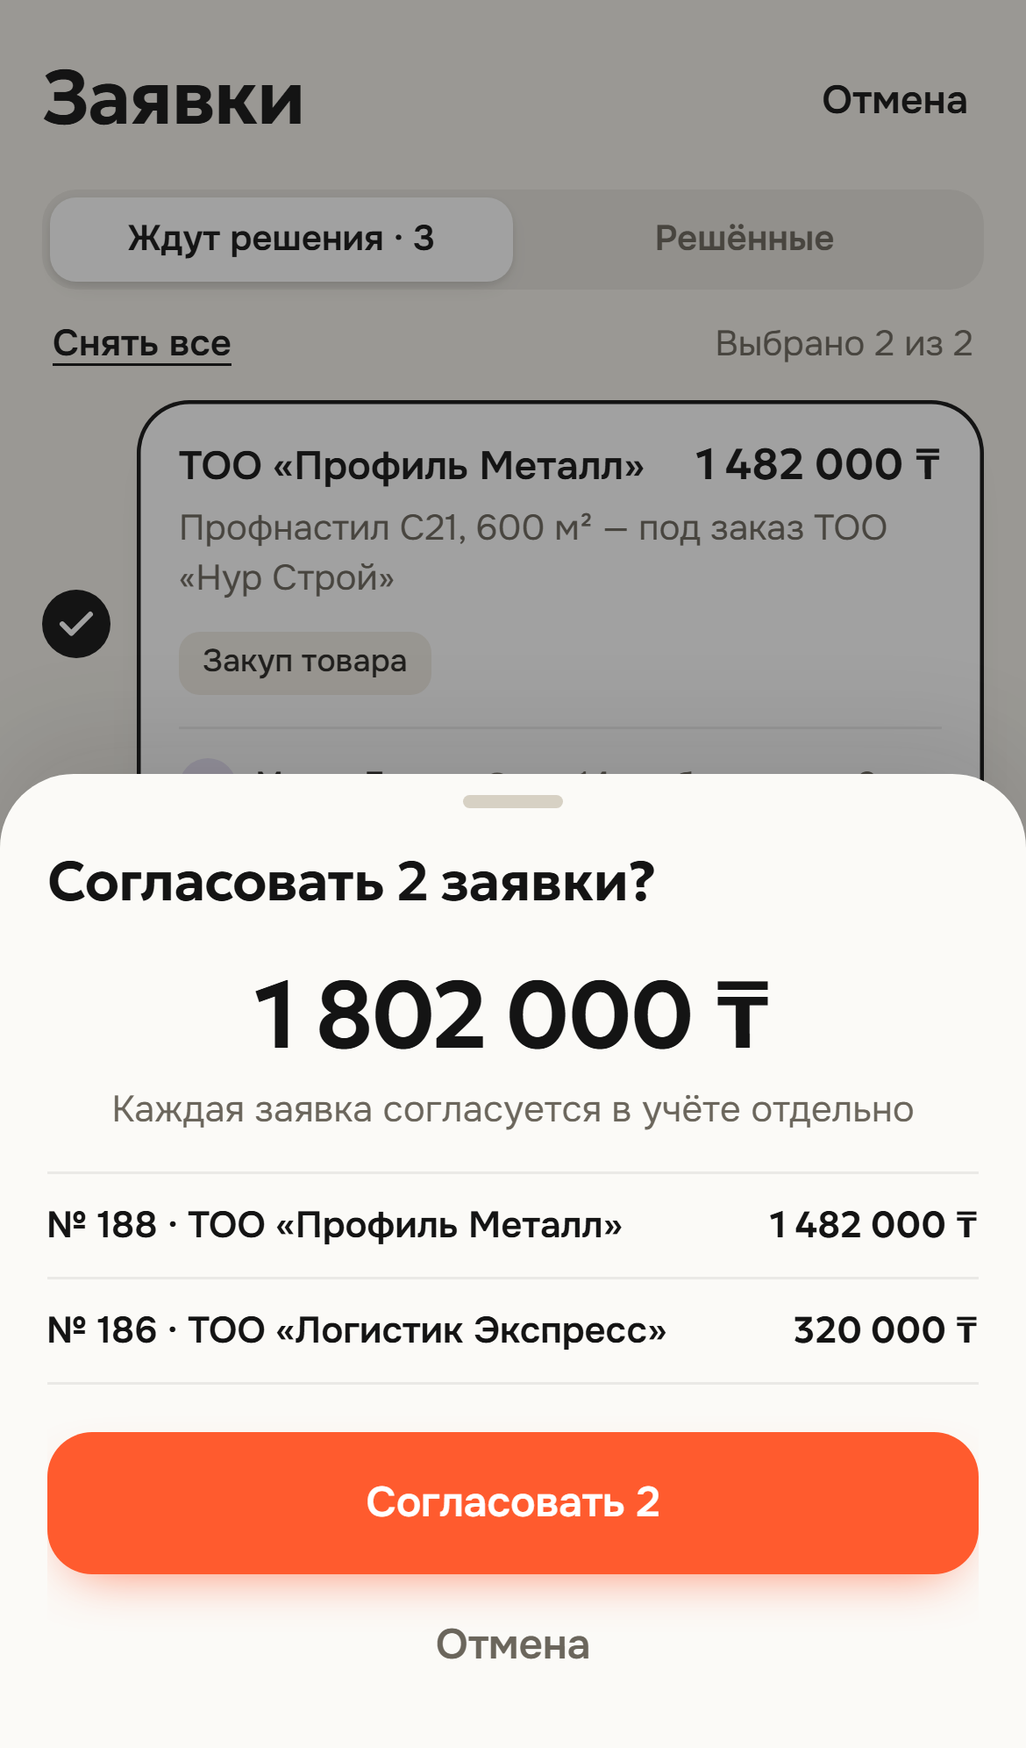
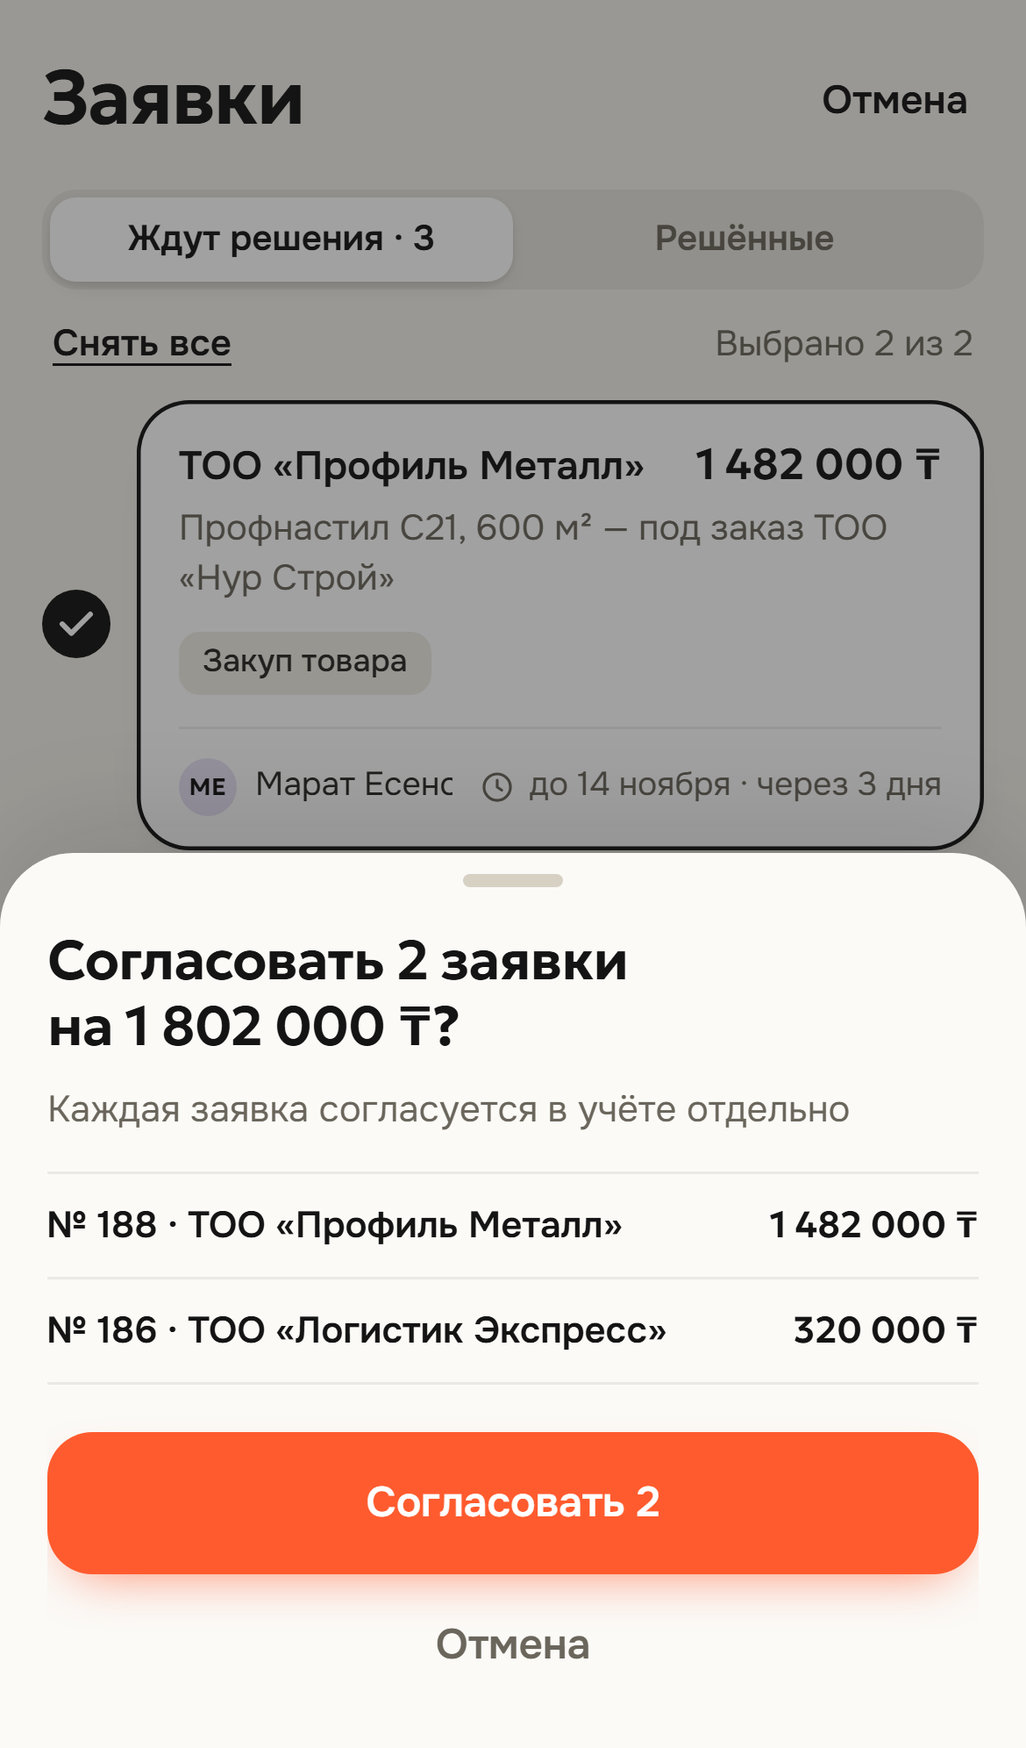
1.3.1: пачка заявок директору — push request_batch и сумма в подтверждении
Push request_batch («На согласование: N заявок», Посредник склеивает уведомления за 30 с) открывает список
«Ждут решения» нужной организации; уведомление отмечается прочитанным, без входа ссылка запоминается. Тег
batch-<org_id> — следующая пачка той же организации заменяет прежнюю. Строка уведомления с type request_batch
или link kind requests ведёт туда же. Одна заявка в окне — прежний push request.
Подтверждение массового согласования: «Согласовать N заявок на <сумма>?».
Серверного метода нет: согласование по-прежнему по одной заявке со своим Idempotency-Key.
Демо: строка «На согласование: 3 заявки» в уведомлениях. appVersion 1.3.1, кэш finpuls-v23.

Changed region(s): [[0.0, 0.4357, 1.0, 0.6536]]

diff --git a/docs/sw.js b/docs/sw.js
@@ -1,6 +1,6 @@
 // Сервис-воркер: оболочка приложения (сначала сеть, без сети — кэш) и push-уведомления.
 // Ответы API (api.smartsol.pro) НЕ кэшируются и не проходят через кэш: данные клиента не оседают на устройстве.
-const CACHE = 'finpuls-v22';
+const CACHE = 'finpuls-v23';
 const SHELL = [
   './', './index.html', './css/app.css', './manifest.webmanifest', './data/demo.json', './data/projects.json',
   './js/app.js', './js/config.js', './js/screens.js', './js/store.js', './js/ui.js', './js/util.js', './js/icons.js', './js/push.js',
@@ -38,12 +38,18 @@ self.addEventListener('fetch', (e) => {
 
 // ---------- push ----------
 // Контракт v1, 9.3: { type, title, body, org_id, request_id, notification_id, sent_at }; 13.22 — то же с
-// type: "counterparty_request" и counterparty_request_id вместо request_id.
+// type: "counterparty_request" и counterparty_request_id вместо request_id; request_batch — пачка новых заявок:
+// { type, title, body, org_id, count, notification_id, sent_at }, без request_id.
 // В push нет сумм и контрагентов — детали приложение запрашивает у сервера при открытии.
 function hashFor(d) {
   if (d.type === 'request' && d.request_id) {
     const q = [d.org_id ? `org=${encodeURIComponent(d.org_id)}` : '', d.notification_id ? `n=${encodeURIComponent(d.notification_id)}` : ''].filter(Boolean).join('&');
     return `#/requests/${encodeURIComponent(d.request_id)}${q ? `?${q}` : ''}`;
+  }
+  // Пачка новых заявок (request_batch, с 1.3.1): Посредник склеивает push за 30 с — список «Ждут решения» организации.
+  if (d.type === 'request_batch') {
+    const q = [d.org_id ? `org=${encodeURIComponent(d.org_id)}` : '', d.notification_id ? `n=${encodeURIComponent(d.notification_id)}` : ''].filter(Boolean).join('&');
+    return `#/requests${q ? `?${q}` : ''}`;
   }
   // Запрос контрагента (13.22): карточка запроса; нет идентификатора — список запросов.
   if (d.type === 'counterparty_request') {
@@ -60,10 +66,11 @@ self.addEventListener('push', (e) => {
   } catch (err) {
     d = {};
   }
-  const title = d.title || (d.type === 'request' ? 'Новая заявка на согласование' : d.type === 'counterparty_request' ? 'Запрос контрагента' : 'ФинПульс');
+  const title = d.title || (d.type === 'request' ? 'Новая заявка на согласование' : d.type === 'request_batch' ? 'Новые заявки на согласование' : d.type === 'counterparty_request' ? 'Запрос контрагента' : 'ФинПульс');
   e.waitUntil(self.registration.showNotification(title, {
     body: d.body || 'Откройте, чтобы посмотреть',
-    tag: d.request_id ? `request-${d.request_id}` : d.counterparty_request_id ? `cr-${d.counterparty_request_id}` : d.notification_id || undefined,
+    // Пачка той же организации заменяет прежнюю, а не добавляется второй строкой.
+    tag: d.type === 'request_batch' ? `batch-${d.org_id || ''}` : d.request_id ? `request-${d.request_id}` : d.counterparty_request_id ? `cr-${d.counterparty_request_id}` : d.notification_id || undefined,
     renotify: true,
     icon: 'icons/icon-192.png',
     badge: 'icons/icon-192.png',

diff --git a/docs/js/screens.js b/docs/js/screens.js
@@ -1465,6 +1465,12 @@ async function requestList() {
   };
 }
 
+// Вход в список заявок из push пачки (request_batch) или строки уведомления: вкладка «Ждут решения».
+export function showPendingRequests() {
+  ui.reqTab = 'pending';
+  ui.leaving = null;
+}
+
 actions['req-tab'] = (t) => {
   if (ui.reqTab === t.dataset.v) return;
   ui.reqTab = t.dataset.v;
@@ -1626,9 +1632,8 @@ actions['bulk-confirm'] = () => {
   if (!picked.length) return;
   bulk.res = new Map();
   const over = picked.filter((r) => r.overLimit > 0);
-  openSheet(`<div class="sheet-title">Согласовать ${picked.length} ${plural(picked.length, REQ_ACC)}?</div>
-    <div class="confirm-sum">${money(sum(picked, (r) => r.amount))}</div>
-    <p class="confirm-sub">Каждая заявка согласуется в учёте отдельно</p>
+  openSheet(`<div class="sheet-title" data-bulk-q>Согласовать ${picked.length}${NB}${plural(picked.length, REQ_ACC)} на${NB}${money(sum(picked, (r) => r.amount))}?</div>
+    <p class="confirm-sub bulk-sub">Каждая заявка согласуется в учёте отдельно</p>
     ${over.length ? `<div class="over-note compact">${I.alert}<div><b>Сверх лимита: ${over.length} из ${picked.length}</b><span>Превышение — ${money(sum(over, (r) => r.overLimit))}</span></div></div>` : ''}
     <div class="bk-list plain" data-bulk-list>${picked.map(bulkRow).join('')}</div>
     <div class="sheet-actions">
@@ -3394,6 +3399,7 @@ actions['dds-sel'] = (t) => {
 const N_IC = {
   payment: ['in', I.arrowIn],
   request: ['req', I.requests],
+  request_batch: ['req', I.requests], // пачка новых заявок (1.3.1)
   cr: ['req', I.chat], // запрос контрагента (13.22)
   gap: ['gap', I.alert],
   summary: ['sum', I.sun],
@@ -3465,6 +3471,7 @@ actions['open-notif'] = (t) => {
     return;
   }
   const h = linkToHash(n.link);
+  if (n.link === 'requests') showPendingRequests();
   if (h) navigate(h, 'push');
   else nav.rerender();
 };

diff --git a/docs/js/app.js b/docs/js/app.js
@@ -1,7 +1,7 @@
 // Точка входа: роутер на хешах, асинхронная загрузка экранов, ошибки без белого экрана, переходы, нижняя навигация.
 import { CONFIG, isTestEnv, leaveTestEnv } from './config.js';
 import { api, setMode, ApiError } from './api/index.js';
-import { views, actions, errorView, onUnauthorized, invalidate, rememberLink } from './screens.js';
+import { views, actions, errorView, onUnauthorized, invalidate, rememberLink, showPendingRequests } from './screens.js';
 import { nav, navigate, back, closeSheet, sheetOpen, histIdx, loading } from './ui.js';
 import { I, logoMark } from './icons.js';
 import { syncPush } from './push.js';
@@ -96,10 +96,12 @@ async function route() {
       nav.crBadge = null;
     }
     if (qNote) api.markRead(api.orgId(), qNote).catch(() => {});
+    // Push пачки заявок ведёт в список: открыть его на вкладке «Ждут решения», даже если раньше была «Решённые».
+    if (r.name === 'requests' && !r.params[0]) showPendingRequests();
     replaceHash(location.hash.split('?')[0]);
   }
   // Ссылка на заявку без входа (нажали на push, сессии нет) — запомнить и открыть после входа.
-  if (!api.session() && (r.name === 'requests' || r.name === 'cr') && r.params[0]) rememberLink(location.hash);
+  if (!api.session() && (r.name === 'requests' || r.name === 'cr') && (r.params[0] || r.query.get('org'))) rememberLink(location.hash);
   const redirect = guard(r);
   if (redirect) {
     replaceHash(redirect);

diff --git a/docs/js/config.js b/docs/js/config.js
@@ -28,7 +28,9 @@ export const CONFIG = {
   // 1.3.0 — экран «Запросы контрагентов» (бот контрагентов в WhatsApp, контракт 13.17–13.22, 1С 1.17.0): ответы бота,
   // которые ждут подтверждения бухгалтера, и задачи бухгалтеру; «Отправить», «Отклонить», «Закрыть»; push и строка
   // в уведомлениях. Экран есть, только если у организации counterparty_requests в /orgs — число.
-  appVersion: '1.3.0',
+  // 1.3.1 — пачка заявок директору: push request_batch («На согласование: N заявок») открывает «Ждут решения» нужной
+  // организации; подтверждение массового согласования — «Согласовать N заявок на <сумма>?».
+  appVersion: '1.3.1',
 
   // Массовое согласование: брать ли в выбор заявки сверх лимита статьи. false — такие заявки согласуются только
   // по одной, из карточки (галочка неактивна, подпись «только по одной»); true — выбираются наравне с остальными,

diff --git a/docs/js/api/server.js b/docs/js/api/server.js
@@ -794,6 +794,7 @@ const N_TYPE = { payment_corrected: 'payment', payment_cancelled: 'payment', dec
 function linkStr(l) {
   if (!l) return null;
   if (l.kind === 'request' && l.request_id) return `request:${l.request_id}`;
+  if (l.kind === 'requests') return 'requests'; // пачка новых заявок — список «Ждут решения»
   // Запрос контрагента (13.22): карточка; без идентификатора — список.
   if (l.kind === 'counterparty_request') return l.counterparty_request_id || l.request_id ? `cr:${l.counterparty_request_id || l.request_id}` : 'cr';
   if (l.kind === 'calendar' && l.date) return `calendar:${l.date}`;
@@ -814,7 +815,7 @@ export async function notifications(id) {
       title: n.title,
       text: n.text,
       read: !!n.read,
-      link: linkStr(n.link) || (n.type === 'counterparty_request' ? 'cr' : null),
+      link: linkStr(n.link) || (n.type === 'counterparty_request' ? 'cr' : n.type === 'request_batch' ? 'requests' : null),
     })),
   };
 }

diff --git a/docs/css/app.css b/docs/css/app.css
@@ -941,6 +941,8 @@ html.framed .loadbar { top: 50px; left: 24px; right: 24px; }
 .actionbar.ab-1 { grid-template-columns: 1fr; }
 .textarea.cr-text { font-size: 15.5px; }
 .cr-files-note { justify-content: flex-start; margin: 10px 2px 0; text-align: left; }
+/* пачка заявок (1.3.1): сумма — в вопросе, под ним пояснение */
+.confirm-sub.bulk-sub { margin-top: 8px; text-align: left; }
 .btn-dark { background: var(--ink); color: var(--milk); }
 .returned .done-ring { fill: var(--lav); }
 .returned .done-mark { stroke: var(--ink); stroke-dasharray: 140; stroke-dashoffset: 140; }

diff --git a/spec/api-client.md b/spec/api-client.md
@@ -10,7 +10,7 @@
 
 | Файл | Что |
 |---|---|
-| `docs/js/config.js` | `apiBase` — рабочий `https://api.smartsol.pro/api/v1`; `apiBaseTest` — тестовый, включается адресом с `?api=test` (см. «Тестовый сервер»); `appVersion` (сейчас 1.3.0); `bulkOverLimit` — брать ли заявки сверх лимита в массовое согласование (по умолчанию `false`), таймаут 25 с |
+| `docs/js/config.js` | `apiBase` — рабочий `https://api.smartsol.pro/api/v1`; `apiBaseTest` — тестовый, включается адресом с `?api=test` (см. «Тестовый сервер»); `appVersion` (сейчас 1.3.1); `bulkOverLimit` — брать ли заявки сверх лимита в массовое согласование (по умолчанию `false`), таймаут 25 с |
 | `docs/js/api/server.js` | **переходник**: запросы по контракту → DTO экранов; токены; коды ошибок |
 | `docs/js/api/core.js` | ошибка `ApiError`, хранилище, `once` — склейка одинаковых GET |
 | `docs/js/api/demo.js` | те же DTO на выдуманных данных, без сети |
@@ -107,7 +107,7 @@
 остаётся на экране входа с текстом «Не удалось начать вход. Повторите через минуту.»
 
 Версии: вход по коду — с `appVersion` **1.1.0** (на рабочем сервере `min_app_version` — `1.1.0`); экран нового
-устройства «Подтвердите вход в Telegram» — с **1.1.1**; без прежней схемы входа — с **1.1.2**; отчёты по списку сервера и «Проекты» — с **1.2.0**; календарь на настоящих данных (просрочка, заявка, разрыв) — с **1.2.1**; массовое согласование заявок — с **1.2.2**; «Отправить директору» — с **1.2.7**; экран «Запросы контрагентов» — с **1.3.0**.
+устройства «Подтвердите вход в Telegram» — с **1.1.1**; без прежней схемы входа — с **1.1.2**; отчёты по списку сервера и «Проекты» — с **1.2.0**; календарь на настоящих данных (просрочка, заявка, разрыв) — с **1.2.1**; массовое согласование заявок — с **1.2.2**; «Отправить директору» — с **1.2.7**; экран «Запросы контрагентов» — с **1.3.0**; push пачки заявок `request_batch` — с **1.3.1**.
 
 ## Тестовый сервер (проверка на телефонах)
 
@@ -294,6 +294,26 @@
 - **Нет доступа.** Список ответил `403`, `404` или `501` — «Раздел недоступен», без ошибки.
 - **Демо.** У «Альфа Логистик» пять ожидающих запросов (ответы с актом сверки и сальдо, незнакомый номер, две
   задачи) и два решённых; файлы открываются заглушкой документа. У остальных организаций экрана нет.
+
+## Пачка заявок директору (с 1.3.1)
+
+Серверного метода для пачки нет: массовое согласование (с 1.2.2) шлёт `POST …/approve` по одной заявке, у каждой свой
+`Idempotency-Key`. В 1.3.1 меняются только push и текст подтверждения.
+
+- **Push `request_batch`.** Посредник склеивает уведомления о новых заявках за 30 с (окно — база, пользователь 1С,
+  организация). Одна заявка в окне — прежний `type: "request"` с `request_id`. Две и больше:
+  `{ "type": "request_batch", "title": "На согласование: 3 заявки", "body": "Откройте, чтобы посмотреть", "org_id",
+  "count", "notification_id", "sent_at" }`. Суммы в push нет. `title` со склонением формирует Посредник; без
+  `title` приложение пишет «Новые заявки на согласование».
+- **Нажатие** открывает `#/requests?org=…&n=…`: вкладку «Ждут решения» нужной организации, уведомление отмечается
+  прочитанным. Без входа ссылка запоминается, как у заявки. Тег уведомления — `batch-<org_id>`: следующая пачка той
+  же организации заменяет прежнюю.
+- **Строка в уведомлениях** (8.1, пока 501): `type: "request_batch"` или `link { "kind": "requests" }` — список
+  «Ждут решения».
+- **Подтверждение** массового согласования — «Согласовать N заявок на <сумма>?».
+- **Совместимость.** 1.3.0 не знает `request_batch`: покажет `title`, а по нажатию откроет список уведомлений.
+  Склейку на бою Посредник включает после публикации 1.3.1 (`[push] batch_window`).
+- **Демо.** У «Альфа Логистик» в уведомлениях строка «На согласование: 3 заявки».
 
 ## Одинаковые запросы
 
